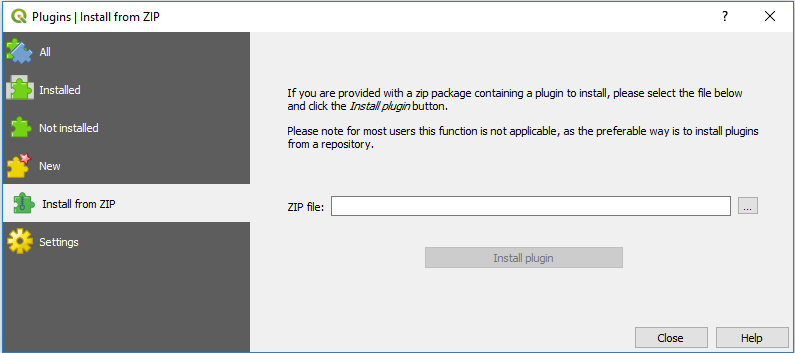
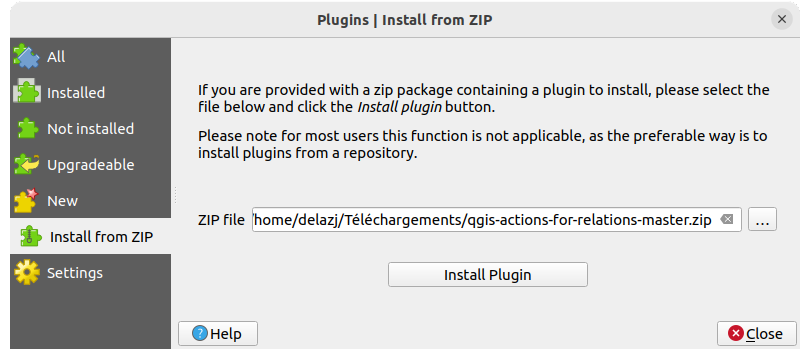
Simplify the "Plugin Manager" dialog description
Restructures the chapter and avoids iterating over the different tabs with repetitive comments listing buttons.
Instead, focus on what different types of tabs we have and what the tabs and the buttons help to do

Changed region(s): [[0.0, 0.0, 1.0, 1.0], [0.483, 0.6856, 0.7849, 0.8102]]

diff --git a/docs/user_manual/plugins/plugins.rst b/docs/user_manual/plugins/plugins.rst
@@ -29,7 +29,7 @@ of two languages: **C++** or **Python**.
 Most of External Plugins are currently written in Python. They are stored either
 in the 'Official' QGIS Repository at https://plugins.qgis.org/plugins/ or in
 external repositories and are maintained by the individual authors. Detailed
-documentation about the usage, minimum QGIS version, home page, authors,and
+documentation about the usage, minimum QGIS version, home page, authors, and
 other important information are provided for the plugins in the Official
 repository. For other external repositories, documentation might be available
 with the external plugins themselves. External plugins documentation is not
@@ -43,11 +43,6 @@ folder of the active :ref:`user profile <user_profiles>` path.
 Paths to Custom C++ plugins libraries can also be added under
 :menuselection:`Settings --> Options --> System`.
 
-.. note::
-
- According to the :ref:`plugin manager settings <setting_plugins>`, QGIS main
- interface can display an icon on the right of the status bar to inform you
- that there are updates for your installed plugins or new plugins available.
 
 .. index::
    single: Plugins; Plugin manager
@@ -57,47 +52,35 @@ Paths to Custom C++ plugins libraries can also be added under
 The Plugins Dialog
 ===================
 
-The tabs in the Plugins dialog allow the user to install, uninstall and upgrade
-plugins in different ways. Each plugin has some metadata displayed in the right
-panel:
-
-* information on whether the plugin is experimental
-* description
-* rating vote(s) (you can vote for your preferred plugin!)
-* tags
-* some useful links to the home page, tracker and code repository
-* author(s)
-* version available
-
-At the top of the dialog, a :guilabel:`Search` function helps you find any
-plugin using metadata information (author, name, description...). It is
-available in nearly every tab (except |transformSettings| :guilabel:`Settings`).
-
 .. _setting_plugins:
 
 The Settings tab
 ----------------
 
-The |transformSettings| :guilabel:`Settings` tab is the main place you can
-configure which plugins can be displayed in your application.
+At the bottom of the left panel, the |transformSettings| :guilabel:`Settings` tab
+is the main place you can configure which plugins can be displayed in your application.
 You can use the following options:
 
-* |checkbox| :guilabel:`Check for updates on startup`. Whenever a new plugin or
-  a plugin update is available, QGIS will inform you 'every time QGIS starts',
-  'once a day', 'every 3 days', 'every week', 'every 2 weeks' or 'every month'.
-* |checkbox| :guilabel:`Show also experimental plugins`. QGIS will show you
+* |checkbox| :guilabel:`Check for Updates on Startup`. Whenever an installed
+  plugin has update available, QGIS will inform you :guilabel:`Every Time QGIS
+  starts`, :guilabel:`Once a Day`, :guilabel:`Every 3 Days`, :guilabel:`Every
+  Week`, :guilabel:`Every 2 Weeks` or :guilabel:`Every month`.
+* |checkbox| :guilabel:`Show also Experimental Plugins`. QGIS will show you
   plugins in early stages of development, which are generally unsuitable for
-  production use.
-* |checkbox| :guilabel:`Show also deprecated plugins`. Because they use
+  production use. For these plugins, you can install either the stable or
+  the experimental version, and at any moment switch from one to the other.
+* |checkbox| :guilabel:`Show also Deprecated Plugins`. Because they use
   functions that are no longer available in QGIS, these plugins are set
-  deprecated and generally unsuitable for production use. They appear among
-  invalid plugins list.
+  deprecated and generally unsuitable for production use. They are grayed
+  in the plugins list.
 
-By default, QGIS provides you with its official plugin repository with the URL
-https://plugins.qgis.org/plugins/plugins.xml?qgis=3.0 (in case of QGIS 3.0)
-in the :guilabel:`Plugin repositories` section. To add external author repositories,
-click :guilabel:`Add...` and fill in the :guilabel:`Repository Details` form with a
-name and the URL. The URL can be of ``http://`` or ``file://`` protocol type.
+By default, in the :guilabel:`Plugin Repositories` section, QGIS provides
+you with its official plugin repository with the URL
+``https://plugins.qgis.org/plugins/plugins.xml?qgis=version``
+(where ``<version>`` represents the exact QGIS version you are running).
+To add external author repositories, click |symbologyAdd| :guilabel:`Add...`
+and fill in the :guilabel:`Repository Details` form with a name and the URL.
+The URL can be of ``http://`` or ``file://`` protocol type.
 
 The default QGIS repository is an open repository and you don't need any
 authentication to access it. You can however deploy your own plugin repository
@@ -105,8 +88,8 @@ and require an authentication (basic authentication, PKI). You can get more
 information on QGIS authentication support in :ref:`authentication` chapter.
 
 If you do not want one or more of the added repositories, they can be disabled
-from the Settings tab via the :guilabel:`Edit...` button, or completely removed with
-the :guilabel:`Delete` button.
+from the Settings tab via the |symbologyEdit| :guilabel:`Edit...` button,
+or completely removed with the |symbologyRemove| :guilabel:`Delete` button.
 
 .. _figure_plugins_settings:
 
@@ -115,98 +98,101 @@ the :guilabel:`Delete` button.
 
    The |transformSettings| :guilabel:`Settings` tab
 
-The All tab
------------
+Browsing the plugins
+--------------------
 
-In the |showPluginManager| :guilabel:`All` tab,
-all the available plugins are listed, including both core and external
-plugins. Use :guilabel:`Upgrade All` to look for new versions of the plugins.
-Furthermore, you can use :guilabel:`Install Plugin` if a plugin is listed but not
-installed, :guilabel:`Uninstall Plugin` as well as :guilabel:`Reinstall Plugin` if a plugin
-is installed. An installed plugin can be temporarily de/activated using the
-checkbox.
+The tabs
+........
+
+The upper tabs in the :guilabel:`Plugins` dialog provide you with lists of plugins
+based on their install, creation or update status. Depending on the plugins settings,
+available tabs can be:
+
+* |showPluginManager| :guilabel:`All`: shows all the available plugins in
+  the enabled repositories
+* |plugin-installed| :guilabel:`Installed`: shows both the plugins you installed
+  and the core plugins that are installed by default and you can not uninstall
+* |plugin| :guilabel:`Not installed`: shows uninstalled or not yet installed
+  plugins in the enabled repositories
+* |plugin-new| :guilabel:`New`: shows plugins released since the last
+  :guilabel:`Check for Updates on Startup`
+* |plugin-upgrade| :guilabel:`Upgradeable`: shows installed plugins that have
+  published a more recent version in the repository
+* |pluginIncompatible| :guilabel:`Invalid`: shows all installed plugins that are
+  currently broken for any reason (missing dependency, errors while loading,
+  incompatible functions with QGIS version...)
+
+At the top of the tabs, a :guilabel:`Search` function helps you find any
+plugin using metadata information (author, name, description, tag,...).
 
 .. _figure_plugins_all:
 
 .. figure:: img/plugins_all.png
    :align: center
 
-   The |showPluginManager| :guilabel:`All` tab
+   Searching a plugin from the |showPluginManager| :guilabel:`All` tab
 
+The Plugins
+...........
 
-The Installed tab
------------------
+Select a plugin and you will have some metadata displayed in the right panel:
 
-In the |pluginInstalled| :guilabel:`Installed` tab, you'll find listed the Core
-plugins, that you can not uninstall. You can extend this list with external
-plugins that can be uninstalled and reinstalled any time, using the
-:guilabel:`Uninstall Plugin` and :guilabel:`Reinstall Plugin` buttons.
-You can :guilabel:`Upgrade All` the plugins here as well.
+* information on whether the plugin is experimental or has an experimental
+  version available (if :guilabel:`Show also Experimental Plugins` is checked)
+* summary and description
+* rating vote(s) (you can vote for your preferred plugin!)
+* tags
+* some useful links to the home page, tracker and code repository
+* author(s)
+* version(s) available with link to download page in the repository, or path to
+  local folder for installed plugins
 
-.. _figure_plugins_installed:
+The :guilabel:`Plugin Manager` dialog allows you to interact with the latest
+version of the plugins. When enabled, the experimental version can be shown
+only if it is more recent than the latest stable version.
+Depending on the active tab, whether the selected plugin is installed,
+you will be given some of the following options:
 
-.. figure:: img/plugins_installed.png
-   :align: center
+* :guilabel:`Install`: installs the latest stable version of the selected plugin
+* :guilabel:`Install Experimental Plugin`: installs the experimental version
+  of the selected plugin
+* :guilabel:`Reinstall Plugin`: installs the same stable version of the plugin
+  e.g. after it has failed to load
+* :guilabel:`Reinstall Experimental Plugin`: installs the same stable version
+  of the plugin e.g. after it has failed to load
+* :guilabel:`Upgrade Plugin`: upgrades selected plugin to its latest stable version
+* :guilabel:`Upgrade Experimental Plugin`: upgrades selected plugin to its
+  experimental version
+* :guilabel:`Upgrade All`: upgrades all installed plugins to their more recent
+  stable or experimental version (depending on whether their previously installed
+  version was stable or experimental).
+* :guilabel:`Downgrade Plugin`: moves from the experimental version of the plugin
+  to its previous stable version
+* :guilabel:`Downgrade Experimental Plugin`: moves from an experimental version
+  of the plugin to its latest published experimental version. This may occur
+  when playing with a not yet published version.
+* :guilabel:`Uninstall Plugin`: removes the installed plugin from the user profile
 
-   The |pluginInstalled| :guilabel:`Installed` tab
+An installed plugin displays a |checkbox| checkbox on its left.
+Uncheck it to temporarily deactivate the plugin.
 
-The Not installed tab
----------------------
+Right-click on a plugin in the list and you will be able to sort the plugins list
+by various metadata. The new order applies to all the tabs. Sort options are:
 
-The |plugin| :guilabel:`Not installed` tab lists all plugins available that
-are not installed.
-You can use the :guilabel:`Install Plugin` button to implement a plugin into QGIS.
+* :guilabel:`Sort by Name`
+* :guilabel:`Sort by Downloads`
+* :guilabel:`Sort by Vote`
+* :guilabel:`Sort by Status`
+* :guilabel:`Sort by Date Created`
+* :guilabel:`Sort by Date Updated`
 
-.. _figure_plugins_not_installed:
-
-.. figure:: img/plugins_not_installed.png
-   :align: center
-
-   The |plugin| :guilabel:`Not installed` tab
-
-The Upgradeable and New tabs
-----------------------------
-
-The |plugin-upgrade| :guilabel:`Upgradeable` and |plugin-new| :guilabel:`New` tabs
-are enabled when new plugins are added to the repository or a new
-version of an installed plugin is released.
-If you activated |checkbox| :guilabel:`Show also experimental plugins` in the
-|transformSettings| :guilabel:`Settings` menu, those also appear in the list
-giving you opportunity to early test upcoming tools.
-
-Installation can be done with the :guilabel:`Install Plugin`, :guilabel:`Upgrade
-Plugin` or :guilabel:`Upgrade All` buttons.
-
-.. _figure_plugins_upgradeable:
-
-.. figure:: img/plugins_upgradeable.png
-   :align: center
-
-   The |plugin-upgrade| :guilabel:`Upgradeable` tab
-
-The Invalid tab
----------------
-
-The |pluginIncompatible| :guilabel:`Invalid` tab lists all installed plugins that are
-currently broken for any reason (missing dependency, errors while loading,
-incompatible functions with QGIS version...). 
-You can try the :guilabel:`Reinstall Plugin` button to fix an invalidated plugin but
-most of the times the fix will be elsewhere (install some libraries, look for
-another compatible plugin or help to upgrade the broken one).
-
-.. _figure_plugins_invalid:
-
-.. figure:: img/plugins_invalid.png
-   :align: center
-
-   The |pluginIncompatible| :guilabel:`Invalid` tab
 
 The Install from ZIP tab
 ------------------------
 
 The |installPluginFromZip| :guilabel:`Install from ZIP` tab provides a file
 selector widget to import plugins in a zipped format, e.g. plugins downloaded
-directly from their repository. 
+directly from their repository. Encrypted files are supported.
 
 .. _figure_plugins_install_zip:
 
@@ -227,6 +213,8 @@ directly from their repository.
    :width: 1.5em
 .. |plugin| image:: /static/common/plugin.png
    :width: 1.5em
+.. |plugin-installed| image:: /static/common/plugin-installed.png
+   :width: 1.5em
 .. |plugin-new| image:: /static/common/plugin-new.png
    :width: 1.5em
 .. |plugin-upgrade| image:: /static/common/plugin-upgrade.png
@@ -236,6 +224,12 @@ directly from their repository.
 .. |pluginInstalled| image:: /static/common/plugin-installed.png
    :width: 1.5em
 .. |showPluginManager| image:: /static/common/mActionShowPluginManager.png
+   :width: 1.5em
+.. |symbologyAdd| image:: /static/common/symbologyAdd.png
+   :width: 1.5em
+.. |symbologyEdit| image:: /static/common/symbologyEdit.png
+   :width: 1.5em
+.. |symbologyRemove| image:: /static/common/symbologyRemove.png
    :width: 1.5em
 .. |transformSettings| image:: /static/common/mActionTransformSettings.png
    :width: 1.5em
